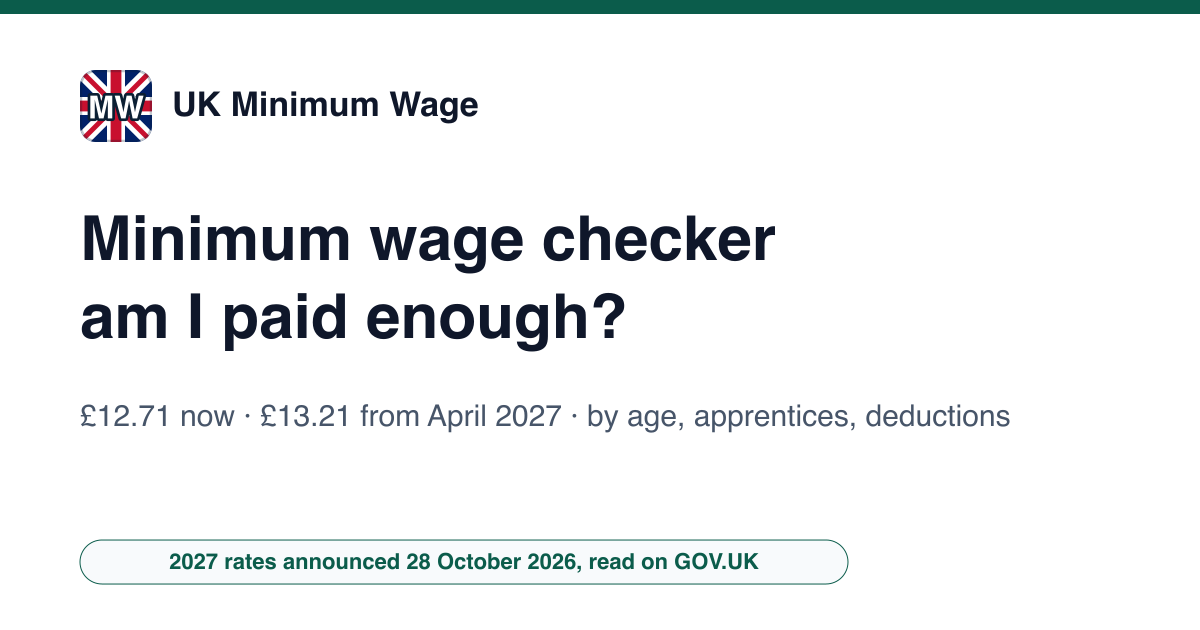
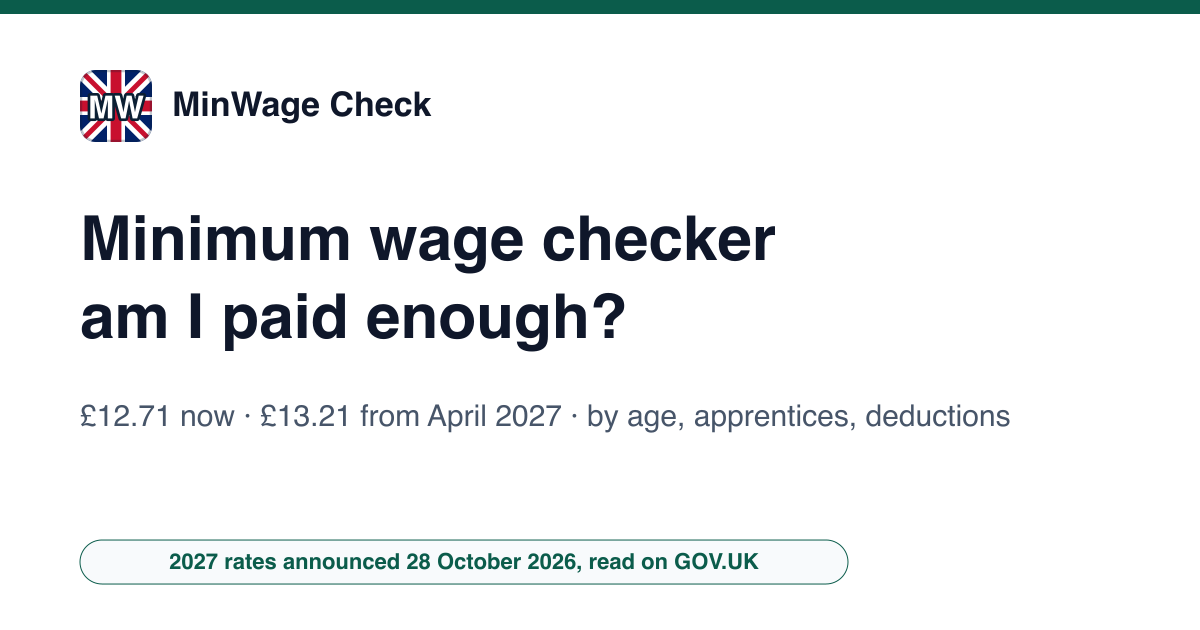
Renommage en MinWage Check (minwagecheck.co.uk)
Domaine minwagecheck.co.uk (au lieu de uk-minimum-wage.example), marque MinWage Check (au lieu de UK Minimum Wage), contact contact@minwagecheck.co.uk, public/CNAME, robots, manifest, og.json et image OG régénérée, site-config, ui.ts (avertissement de pied de page), pages de service, package.json ; ping IndexNow ajouté au workflow après déploiement ; description de Method ramenée aux bornes 150-160.

Changed region(s): [[0.1233, 0.1206, 0.4008, 0.2111]]

diff --git a/src/data/site-config.ts b/src/data/site-config.ts
@@ -1,6 +1,6 @@
 /** Configuration centrale du site (générée par new-site.py). */
-export const SITE_URL = "https://uk-minimum-wage.example";
-export const SITE_NAMES: Record<string, string> = {"en": "UK Minimum Wage"};
+export const SITE_URL = "https://minwagecheck.co.uk";
+export const SITE_NAMES: Record<string, string> = {"en": "MinWage Check"};
 // Partie du nom affichée en couleur dans l'en-tête (RECETTE §10.3), « » pour aucune.
 export const BRAND_ACCENT = "";
 export const LANG_TAGS: Record<string, string> = {"en": "en-GB"};
@@ -18,7 +18,7 @@ export const AUTHOR_DESC: Record<string, string> = {"en": "Radif Partners reads 
  *  themes reellement traites par le site, pas une liste de mots-cles : un sujet
  *  declare ici sans page qui le couvre est une declaration fausse. */
 export const KNOWS_ABOUT: Record<string, string[]> = {"en": ["National Minimum Wage and National Living Wage rates", "National Minimum Wage Regulations 2015", "Apprentice rate of the minimum wage", "Accommodation offset", "Deductions that reduce minimum wage pay", "Minimum wage arrears and enforcement"]};
-export const CONTACT_EMAIL = "contact@uk-minimum-wage.example";
+export const CONTACT_EMAIL = "contact@minwagecheck.co.uk";
 export const THEME_COLOR = '#0B5C4B';
 export const LOGO_SYMBOL = 'MW';
 export const BING_VERIFY_CODE = '';

diff --git a/src/i18n/ui.ts b/src/i18n/ui.ts
@@ -6,7 +6,7 @@ const en = {
   asOf: 'Minimum wage rules', lastUpdated: 'read on GOV.UK, legislation.gov.uk and the Low Pay Commission, last checked on',
   footerValidated: 'Every rate, offset and rule links to the regulation or official page it was read on',
   footerBrowser: 'Checkers run in your browser · nothing you type is sent or stored · free, no account',
-  footerDisclaimer: 'UK Minimum Wage is an independent site published by Radif Partners. It is not HMRC, the Fair Work Agency, the Low Pay Commission, Acas, GOV.UK, a union, a law firm or a payroll provider. Each result is an estimate from what you enter and does not replace a decision by HMRC, a tribunal or a court.',
+  footerDisclaimer: 'MinWage Check is an independent site published by Radif Partners. It is not HMRC, the Fair Work Agency, the Low Pay Commission, Acas, GOV.UK, a union, a law firm or a payroll provider. Each result is an estimate from what you enter and does not replace a decision by HMRC, a tribunal or a court.',
   footerPopular: 'Checkers',
   notFound: 'There is no page at this address. The minimum wage checker is on the home page.',
   readMore: 'Read more', back: 'Home',
